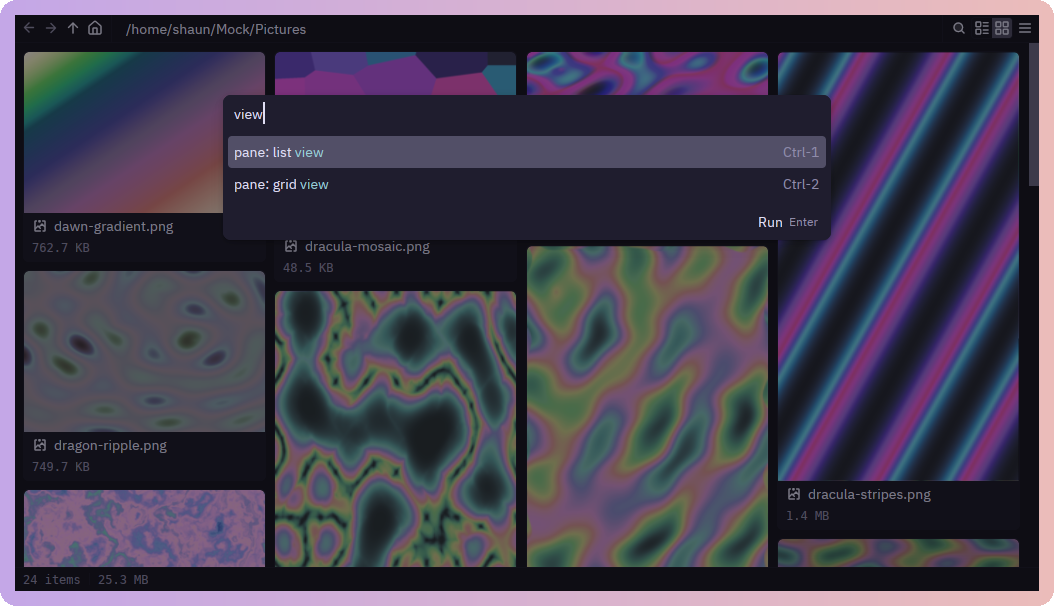
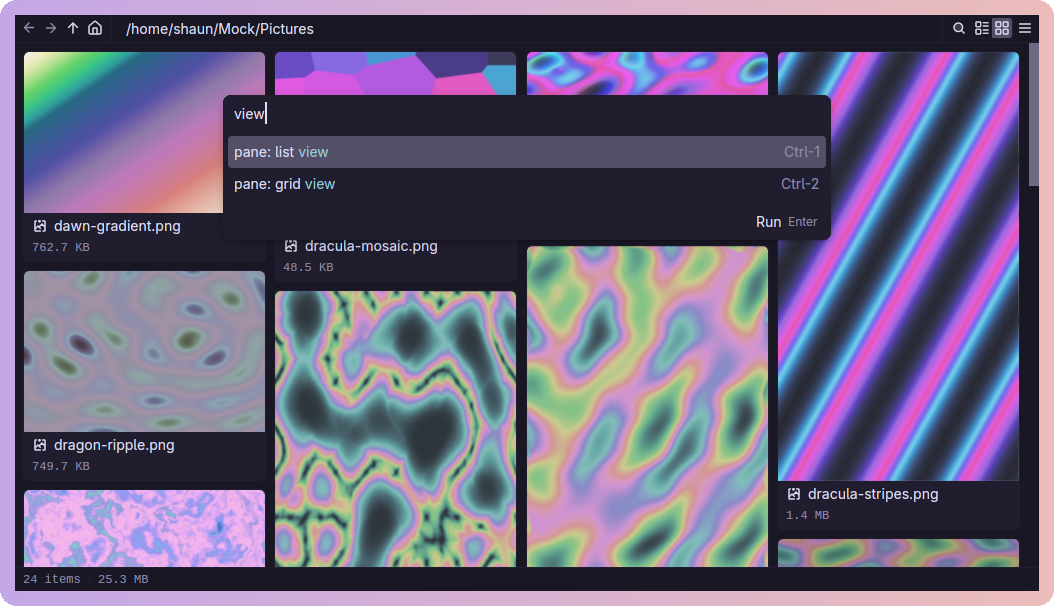
README: new pictures, and one of the save dialog
The README's pictures were from before the two-row picker footer and the
text size Zed uses. run.sh took them again, and it now takes
docs/picker.png too: Hoja as a save dialog over a grid of pictures. The
file picker section shows it and says that saves come to Hoja too.

diff --git a/README.md b/README.md
@@ -53,7 +53,7 @@ feels like working with ordinary folders.
   G-code files for Hoja and for other file managers
 - Opens `.zip` and tar archives as read-only folders, and shows the members
   of a tar as they stream in
-- Opens files and folders for other applications as their file picker,
+- Opens and saves files for other applications as their file picker,
   through the desktop portal, with `hoja-portal`
 
 ### File operations
@@ -124,7 +124,7 @@ Hoja starts without any of these, and each adds something:
 - `hoja-model-thumbnailer`, which `packaging/PKGBUILD` builds with Hoja:
   pictures of STL, 3MF and G-code files.
 - `hoja-portal`, which `packaging/PKGBUILD` builds with Hoja too: Hoja as the
-  file picker of other applications. See below.
+  open and save dialog of other applications. See below.
 - `git`: names colored by Git status.
 - `udisks2`: mounting drives from the place finder.
 - `wl-clipboard`, `xdg-utils`, `libnotify` and `shared-mime-info`: the
@@ -132,12 +132,15 @@ Hoja starts without any of these, and each adds something:
 
 ### Use Hoja as the file picker
 
-Applications that ask the desktop portal for a file, such as Chrome, Zed,
-Electron applications and Flatpaks, can get Hoja instead of the GTK dialog.
-Install `hoja-portal`, then add one line under `[preferred]` in your portal
-config. That is `~/.config/xdg-desktop-portal/portals.conf`, or
-`hyprland-portals.conf` in the same folder (named for your desktop) when you
-have one, because that file wins. Keep the lines already there:
+![Hoja as a save dialog, over a grid of pictures](docs/picker.png)
+
+Applications that ask the desktop portal for a file, or for where to save
+one, such as Chrome, Firefox, Zed, Electron applications and Flatpaks, can
+get Hoja instead of the GTK dialog. Install `hoja-portal`, then add one line
+under `[preferred]` in your portal config. That is
+`~/.config/xdg-desktop-portal/portals.conf`, or `hyprland-portals.conf` in
+the same folder (named for your desktop) when you have one, because that
+file wins. Keep the lines already there:
 
 ```ini
 [preferred]
